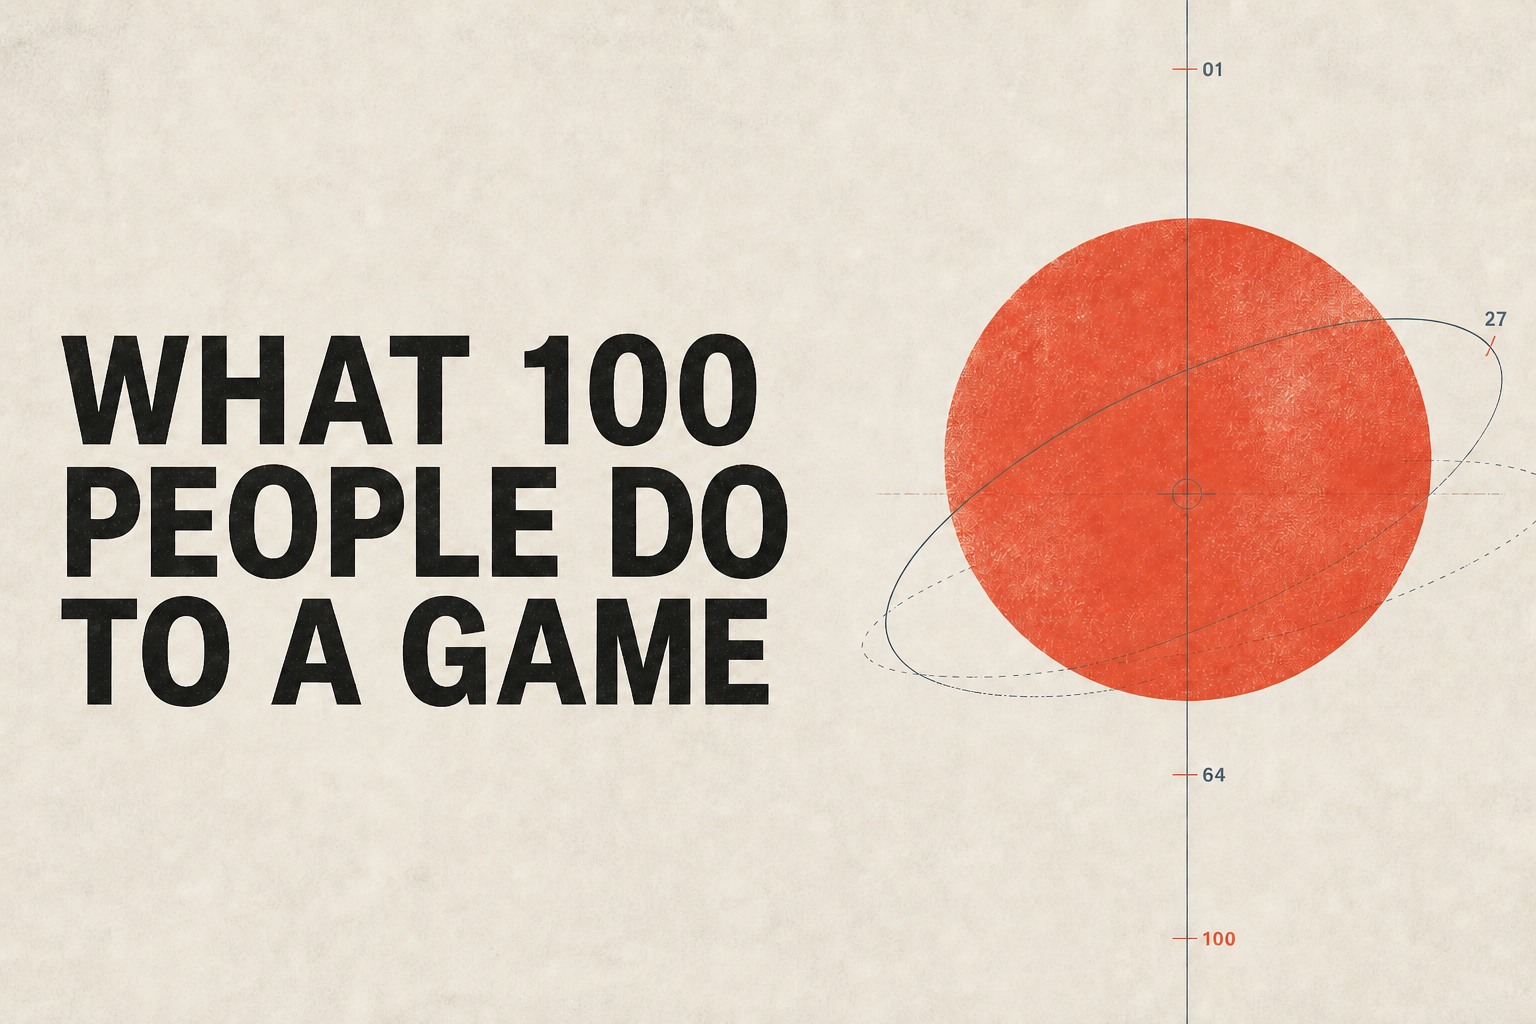
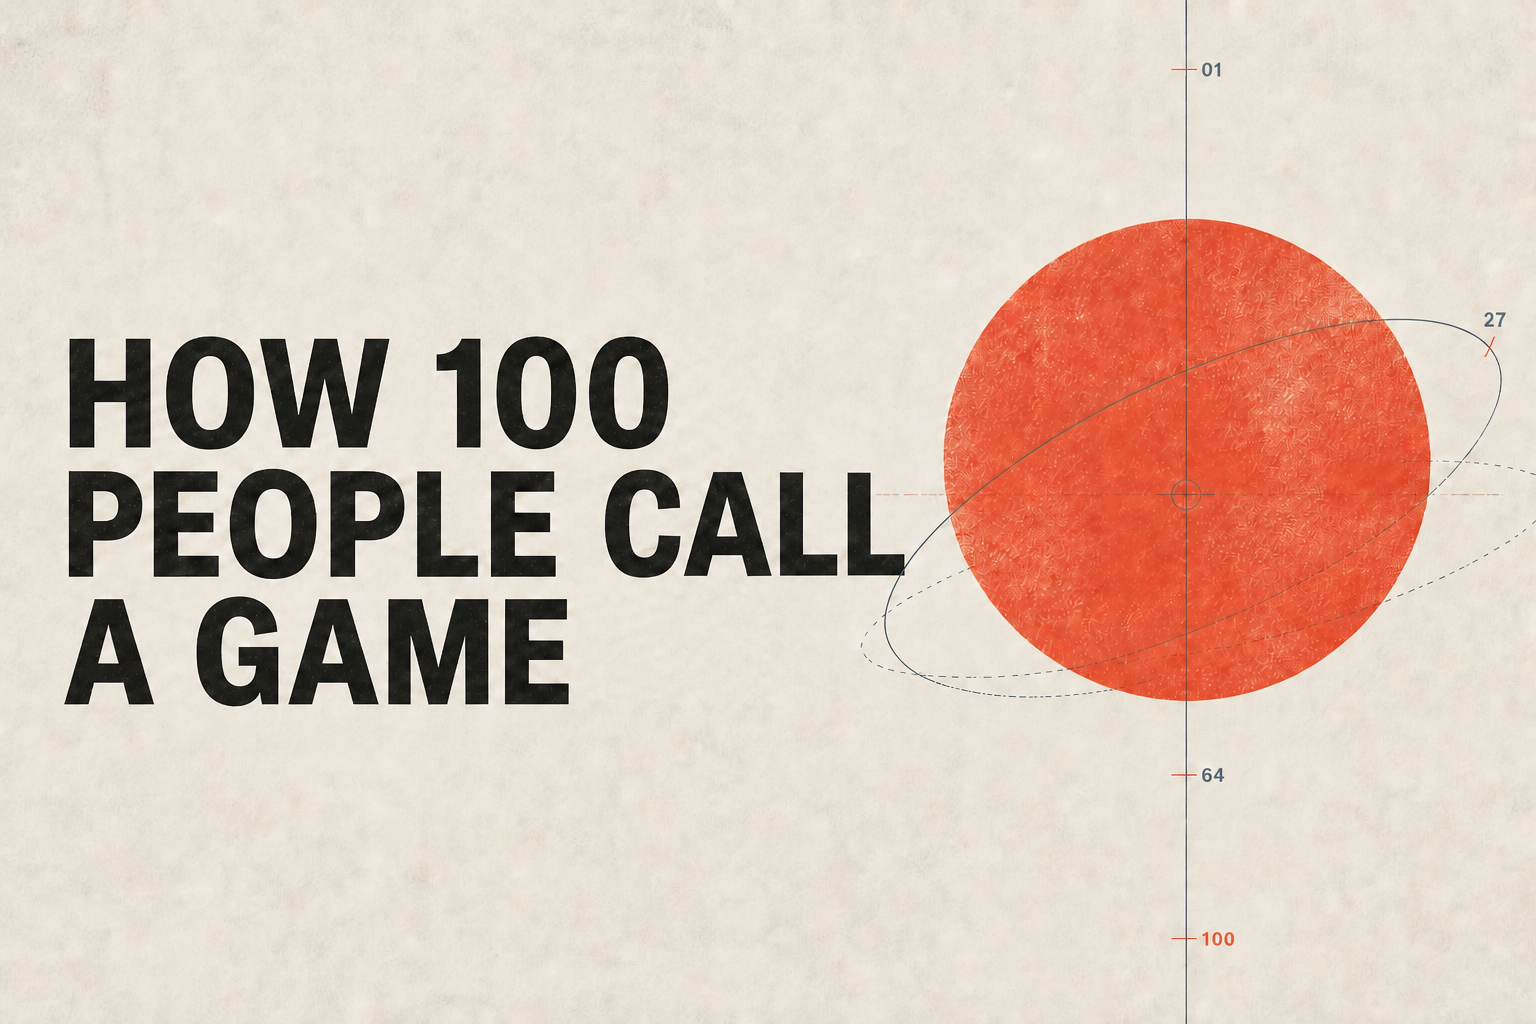
Rename project to How 100 People Call a Game

diff --git a/app/concept/concept-page.tsx b/app/concept/concept-page.tsx
@@ -17,10 +17,10 @@ export function PublicPages({initialView}:{initialView:PublicView}){
  useEffect(()=>{const direct=new URLSearchParams(location.search).get("public")==="1";if(direct){sessionStorage.setItem("w100-entry-choice","public");history.replaceState({},"",location.pathname)}else if(sessionStorage.getItem("w100-entry-choice")!=="public"){location.replace("/");return}const saved=localStorage.getItem("hundred-language") as Language|null;queueMicrotask(()=>{setAccessReady(true);if(saved&&translations[saved])setLang(saved)});const sync=()=>setView(location.pathname==="/people"?"people":"concept");addEventListener("popstate",sync);fetch("/api/designers",{cache:"no-store"}).then(r=>r.ok?r.json():null).then(data=>{if(data?.designers)sessionStorage.setItem("w100-designers-cache",JSON.stringify(data.designers))}).catch(()=>undefined);return()=>removeEventListener("popstate",sync)},[]);
  useEffect(()=>{localStorage.setItem("hundred-language",lang);document.documentElement.lang=lang;document.documentElement.dir=lang==="ar"?"rtl":"ltr"},[lang]);
  const c=localeCopy[lang];const t=translations[lang];
- useEffect(()=>{document.title=`${view==="concept"?c.concept:c.people} — WHAT 100 PEOPLE DO TO A GAME`},[view,c.concept,c.people]);
+ useEffect(()=>{document.title=`${view==="concept"?c.concept:c.people} — HOW 100 PEOPLE CALL A GAME`},[view,c.concept,c.people]);
  const go=(next:PublicView)=>(event:MouseEvent<HTMLAnchorElement>)=>{event.preventDefault();if(view===next)return;history.pushState({},"",next==="concept"?"/concept":"/people");setView(next);window.scrollTo(0,0)};
  if(!accessReady)return <main className="publicAccessCheck" aria-label={c.publicPages}/>;
- return <main className={`publicPage ${view==="concept"?"conceptPage":"peoplePage"}`}><header className="top"><a className="mark" href="/" aria-label="WHAT 100 PEOPLE DO TO A GAME"><Wordmark/></a><nav aria-label={c.publicPages}><a className="publicBack" href="/">← {c.back}</a><a className={view==="concept"?"active":""} href="/concept" onClick={go("concept")}>{c.concept}</a><a className={view==="people"?"active":""} href="/people" onClick={go("people")}>{c.people}</a></nav><label className="languagePicker"><span><b aria-hidden="true">🌐</b>{c.language}</span><select aria-label={c.language} value={lang} onChange={e=>{const next=e.target.value as Language;localStorage.setItem("hundred-language",next);setLang(next)}}>{languageOptions.map(x=><option key={x.value} value={x.value}>{x.label}</option>)}</select></label></header>{view==="concept"?<section className="conceptStandalone"><span className="kicker conceptLabelBlock">{c.concept}</span><h1><span className="conceptHeadlineLine">{c.headline[0]}</span><span className="conceptHeadlineLine accent">{c.headline[1]}</span></h1><p className="conceptSubtitle">{c.subtitle}</p><div className="conceptEssay">{c.essay.map((p,i)=><p key={i}>{p}</p>)}</div><a className="peopleCta" href="/people" onClick={go("people")}>{c.meet} →</a></section>:<PublicDesignerRanking lang={lang}/>}<footer className="copyright">{t.copyright}</footer></main>
+ return <main className={`publicPage ${view==="concept"?"conceptPage":"peoplePage"}`}><header className="top"><a className="mark" href="/" aria-label="HOW 100 PEOPLE CALL A GAME"><Wordmark/></a><nav aria-label={c.publicPages}><a className="publicBack" href="/">← {c.back}</a><a className={view==="concept"?"active":""} href="/concept" onClick={go("concept")}>{c.concept}</a><a className={view==="people"?"active":""} href="/people" onClick={go("people")}>{c.people}</a></nav><label className="languagePicker"><span><b aria-hidden="true">🌐</b>{c.language}</span><select aria-label={c.language} value={lang} onChange={e=>{const next=e.target.value as Language;localStorage.setItem("hundred-language",next);setLang(next)}}>{languageOptions.map(x=><option key={x.value} value={x.value}>{x.label}</option>)}</select></label></header>{view==="concept"?<section className="conceptStandalone"><span className="kicker conceptLabelBlock">{c.concept}</span><h1><span className="conceptHeadlineLine">{c.headline[0]}</span><span className="conceptHeadlineLine accent">{c.headline[1]}</span></h1><p className="conceptSubtitle">{c.subtitle}</p><div className="conceptEssay">{c.essay.map((p,i)=><p key={i}>{p}</p>)}</div><a className="peopleCta" href="/people" onClick={go("people")}>{c.meet} →</a></section>:<PublicDesignerRanking lang={lang}/>}<footer className="copyright">{t.copyright}</footer></main>
 }
 
 export function ConceptPage(){return <PublicPages initialView="concept"/>}

diff --git a/app/studio.tsx b/app/studio.tsx
@@ -25,7 +25,7 @@ export function Studio(){
  const navLabels=[t.nav.overview,t.nav.tasks,t.nav.survey,t.nav.links,t.nav.journal,t.nav.groups,t.nav.dashboard];
  const participantLabel=participant?.display_code||"OWNER";
  const visibleViews=participant?views.filter(id=>id!=="dashboard"):views;
- return <main className="app"><aside><button className="brand" onClick={()=>setView("home")} aria-label="WHAT 100 PEOPLE DO TO A GAME"><Wordmark stacked/></button><nav aria-label={c.choose}>{visibleViews.map(id=>{const i=views.indexOf(id);return <button key={id} className={view===id?"active":""} onClick={()=>{if(id==="groups")setChatMounted(true);setView(id)}}><b>{String(i+1).padStart(2,"0")}</b>{navLabels[i]}</button>})}</nav><div className="asideFoot"><span>{participantLabel}</span></div></aside><section className="workspace"><header className="worktop"><div className="worktopLead"><a href="/">← {c.back}</a></div><div><LanguageSwitcher lang={lang} setLang={setLang} label={c.language}/><span className="privacy">● {t.privacy}</span><button className="avatar" aria-label={participantLabel}>{participantLabel.slice(-2)}</button></div></header>{notice&&<div className="toast">✓ {notice}</div>}{view==="home"&&<Overview t={t} setView={setView} participantCode={participantLabel} lang={lang}/>} {view==="tasks"&&<LiveTasks t={t} lang={lang}/>} {view==="survey"&&<LiveSurvey t={t} lang={lang}/>} {view==="links"&&<LiveLinks t={t} lang={lang}/>} {view==="journal"&&<LiveJournal t={t} lang={lang}/>} {chatMounted&&<div hidden={view!=="groups"}><LiveGroups t={t} lang={lang} active={view==="groups"}/></div>} {view==="dashboard"&&!participant&&<Dashboard t={t} lang={lang}/>}<Footer text={t.copyright}/></section></main>
+ return <main className="app"><aside><button className="brand" onClick={()=>setView("home")} aria-label="HOW 100 PEOPLE CALL A GAME"><Wordmark stacked/></button><nav aria-label={c.choose}>{visibleViews.map(id=>{const i=views.indexOf(id);return <button key={id} className={view===id?"active":""} onClick={()=>{if(id==="groups")setChatMounted(true);setView(id)}}><b>{String(i+1).padStart(2,"0")}</b>{navLabels[i]}</button>})}</nav><div className="asideFoot"><span>{participantLabel}</span></div></aside><section className="workspace"><header className="worktop"><div className="worktopLead"><a href="/">← {c.back}</a></div><div><LanguageSwitcher lang={lang} setLang={setLang} label={c.language}/><span className="privacy">● {t.privacy}</span><button className="avatar" aria-label={participantLabel}>{participantLabel.slice(-2)}</button></div></header>{notice&&<div className="toast">✓ {notice}</div>}{view==="home"&&<Overview t={t} setView={setView} participantCode={participantLabel} lang={lang}/>} {view==="tasks"&&<LiveTasks t={t} lang={lang}/>} {view==="survey"&&<LiveSurvey t={t} lang={lang}/>} {view==="links"&&<LiveLinks t={t} lang={lang}/>} {view==="journal"&&<LiveJournal t={t} lang={lang}/>} {chatMounted&&<div hidden={view!=="groups"}><LiveGroups t={t} lang={lang} active={view==="groups"}/></div>} {view==="dashboard"&&!participant&&<Dashboard t={t} lang={lang}/>}<Footer text={t.copyright}/></section></main>
 }
 
 function LanguageSwitcher({lang,setLang,label}:{lang:Language,setLang:(l:Language)=>void,label:string}){return <label className="languagePicker"><span><b aria-hidden="true">🌐</b>{label}</span><select aria-label={label} value={lang} onChange={e=>{const next=e.target.value as Language;localStorage.setItem("hundred-language",next);setLang(next)}}>{languageOptions.map(x=><option key={x.value} value={x.value}>{x.label}</option>)}</select></label>}

diff --git a/app/concept/page.tsx b/app/concept/page.tsx
@@ -1,6 +1,6 @@
 import type {Metadata} from "next";
 import {ConceptPage} from "./concept-page";
 
-export const metadata:Metadata={title:"Concept — WHAT 100 PEOPLE DO TO A GAME",description:"一项由一百位参与者共同改变游戏的持续性参与式艺术计划。",openGraph:{title:"Concept — WHAT 100 PEOPLE DO TO A GAME",description:"一项由一百位参与者共同改变游戏的持续性参与式艺术计划。",images:[]},twitter:{title:"Concept — WHAT 100 PEOPLE DO TO A GAME",description:"一项由一百位参与者共同改变游戏的持续性参与式艺术计划。",images:[]}};
+export const metadata:Metadata={title:"Concept — HOW 100 PEOPLE CALL A GAME",description:"一项由一百位参与者共同改变游戏的持续性参与式艺术计划。",openGraph:{title:"Concept — HOW 100 PEOPLE CALL A GAME",description:"一项由一百位参与者共同改变游戏的持续性参与式艺术计划。",images:[]},twitter:{title:"Concept — HOW 100 PEOPLE CALL A GAME",description:"一项由一百位参与者共同改变游戏的持续性参与式艺术计划。",images:[]}};
 
 export default function Page(){return <ConceptPage/>}

diff --git a/app/layout.tsx b/app/layout.tsx
@@ -3,11 +3,11 @@ import "./globals.css";
 
 export const metadata: Metadata = {
   metadataBase: new URL("https://hundred-people-game.jzwjf5xs57.chatgpt.site"),
-  title: "WHAT 100 PEOPLE DO TO A GAME",
+  title: "HOW 100 PEOPLE CALL A GAME",
   description: "一个关于共同创作、记录与反馈的参与式艺术协作平台。",
   alternates: { canonical: "/" },
-  openGraph: { title: "WHAT 100 PEOPLE DO TO A GAME", description: "共同创作、记录与反馈的参与式艺术项目。", images: ["/og.png"] },
-  twitter: { card: "summary_large_image", title: "WHAT 100 PEOPLE DO TO A GAME", description: "共同创作、记录与反馈的参与式艺术项目。", images: ["/og.png"] },
+  openGraph: { title: "HOW 100 PEOPLE CALL A GAME", description: "共同创作、记录与反馈的参与式艺术项目。", images: ["/og.png"] },
+  twitter: { card: "summary_large_image", title: "HOW 100 PEOPLE CALL A GAME", description: "共同创作、记录与反馈的参与式艺术项目。", images: ["/og.png"] },
 };
 
 export default function RootLayout({ children }: { children: React.ReactNode }) {

diff --git a/app/people/page.tsx b/app/people/page.tsx
@@ -1,5 +1,5 @@
 import type {Metadata} from "next";
 import {PeoplePage} from "./people-page";
 
-export const metadata:Metadata={title:"People — WHAT 100 PEOPLE DO TO A GAME",description:"The people behind this participatory art project.",alternates:{canonical:"/people"},openGraph:{title:"People — WHAT 100 PEOPLE DO TO A GAME",description:"The people behind this participatory art project.",images:[]},twitter:{title:"People — WHAT 100 PEOPLE DO TO A GAME",description:"The people behind this participatory art project.",images:[]}};
+export const metadata:Metadata={title:"People — HOW 100 PEOPLE CALL A GAME",description:"The people behind this participatory art project.",alternates:{canonical:"/people"},openGraph:{title:"People — HOW 100 PEOPLE CALL A GAME",description:"The people behind this participatory art project.",images:[]},twitter:{title:"People — HOW 100 PEOPLE CALL A GAME",description:"The people behind this participatory art project.",images:[]}};
 export default function Page(){return <PeoplePage/>}

diff --git a/app/wordmark.tsx b/app/wordmark.tsx
@@ -1,4 +1,4 @@
 export function Wordmark({stacked=false}:{stacked?:boolean}){
-  if(stacked)return <span className="wordmark wordmarkStacked"><span>WHAT</span><strong>100</strong><span className="wordmarkPhrase"><strong>PEOPLE</strong><span> DO TO A </span><strong>GAME</strong></span></span>;
-  return <span className="wordmark wordmarkInline"><span>WHAT </span><strong>100 PEOPLE</strong><span> DO TO A </span><strong>GAME</strong></span>;
+  if(stacked)return <span className="wordmark wordmarkStacked"><span>HOW</span><strong>100</strong><span className="wordmarkPhrase"><strong>PEOPLE</strong><span> CALL A </span><strong>GAME</strong></span></span>;
+  return <span className="wordmark wordmarkInline"><span>HOW </span><strong>100 PEOPLE</strong><span> CALL A </span><strong>GAME</strong></span>;
 }
